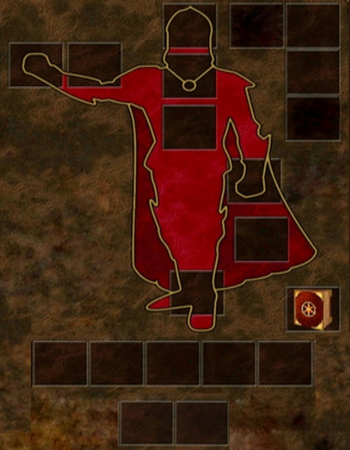
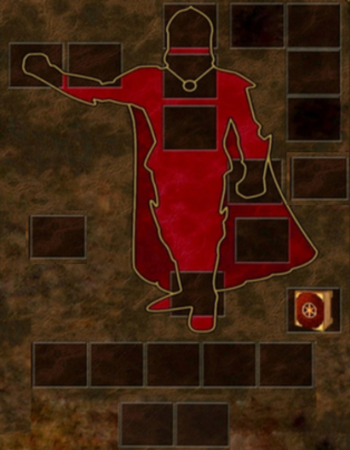
Add new artifacts to shop

diff --git a/economy-gui/src/main/java/pl/psi/gui/EcoController.java b/economy-gui/src/main/java/pl/psi/gui/EcoController.java
@@ -91,6 +91,10 @@ public class EcoController implements PropertyChangeListener {
     private Button LEFT_HAND;
     @FXML
     private Button SHOULDERS;
+    @FXML
+    private Button MISC;
+    @FXML
+    private Button FINGERS;
 
     private ProductType shopChoose;
     private HashMap<ArtifactPlacement, Button> artifactPlacementButtonHashMap;
@@ -115,9 +119,11 @@ public class EcoController implements PropertyChangeListener {
         artifactPlacementButtonHashMap.put(ArtifactPlacement.NECK, NECK);
         artifactPlacementButtonHashMap.put(ArtifactPlacement.SHOULDERS, SHOULDERS);
         artifactPlacementButtonHashMap.put(ArtifactPlacement.FEET, FEET);
+        artifactPlacementButtonHashMap.put(ArtifactPlacement.MISC, MISC);
+        artifactPlacementButtonHashMap.put(ArtifactPlacement.FINGERS, FINGERS);
 
         creatureButtons = List.of(creaturete1, creaturete2, creaturete3, creaturete4, creaturete5, creaturete6, creaturete7);
-        artifactButtons = List.of(HEAD, RIGHT_HAND, LEFT_HAND, FEET, NECK, TORSO, SHOULDERS);
+        artifactButtons = List.of(HEAD, RIGHT_HAND, LEFT_HAND, FEET, NECK, TORSO, SHOULDERS,FINGERS,MISC);
 
         VBoxHero.setBackground(new Background(new BackgroundFill(Color.BROWN, CornerRadii.EMPTY, Insets.EMPTY)));
 
@@ -296,14 +302,16 @@ public class EcoController implements PropertyChangeListener {
         currentGoldLabel.setText(String.valueOf(economyEngine.getActiveHero().getGold().getPrice()));
         shopsBox.getChildren().clear();
         refreshShopDependsOnWhatHasChose();
+
         //refresh boughtArtifacts
         List<EconomyArtifact> artifacts = economyEngine.getActiveHero().getArtifacts();
+
         for (Map.Entry<ArtifactPlacement, Button> b : artifactPlacementButtonHashMap.entrySet()) {
             ArtifactPlacement placement = b.getKey();
             for (EconomyArtifact a : artifacts) {
                 if (a.getPlacement().equals(placement)) {
                     Button button = b.getValue();
-                    Image image = new Image("/artifacts/" + a.getDisplayName() + ".png");
+                    Image image = new Image("/artifacts/" + a.getNameHolder().toString() + ".png");
                     ImageView imageView = new ImageView(image);
                     imageView.setFitHeight(39);
                     imageView.setFitWidth(39);
@@ -317,22 +325,25 @@ public class EcoController implements PropertyChangeListener {
 
     void refreshGuiHeroChanged() {
 
-        playerLabel.setText(economyEngine.getActiveHero().toString());
-        currentGoldLabel.setText(String.valueOf(economyEngine.getActiveHero().getGold().getPrice()));
+        EconomyHero hero = economyEngine.getActiveHero();
+        playerLabel.setText(hero.toString());
+        currentGoldLabel.setText(String.valueOf(hero.getGold().getPrice()));
         roundNumberLabel.setText(String.valueOf(economyEngine.getRoundNumber()));
-        fraction.setText("Fraction : " + economyEngine.getActiveHero().getFraction().name());
+        fraction.setText("Fraction : " + hero.getFraction().name());
 
         // refresh buttons of creatures for the hero2 - without it  hero2 can see what hero1 bought
-        for (int i = 0; i < 7; i++) {
-            Image image = new Image("CLEAR.png");
-            ImageView imageView = new ImageView(image);
+        Image image = new Image("CLEAR.png");
+        ImageView imageView = new ImageView(image);
 
+        for (int i = 0; i < 7; i++) {
             Button button = creatureButtons.get(i);
             imageView.setFitWidth(30);
             imageView.setFitHeight(30);
             button.setGraphic(imageView);
             button.setText("");
+        }
 
+        for (int i = 0; i < artifactButtons.size(); i++) {
             Button button2 = artifactButtons.get(i);
             ImageView imageView2 = new ImageView(image);
             imageView2.setFitWidth(40);

diff --git a/economy-model/src/main/java/pl/psi/artifacts/EconomyArtifactFactory.java b/economy-model/src/main/java/pl/psi/artifacts/EconomyArtifactFactory.java
@@ -95,17 +95,17 @@ public class EconomyArtifactFactory {
 
             case SKULL_HELMET:
 
-                return new EconomyArtifact( ArtifactPlacement.TORSO, "Skull Helmet",
+                return new EconomyArtifact( ArtifactPlacement.HEAD, "Skull Helmet",
                         new Money(5), aArtifactName, "+2 knowledge" );
 
             case CROWN_OF_THE_SUPREME_MAGI:
 
-                return new EconomyArtifact( ArtifactPlacement.TORSO, "Crown of the Supreme Magi",
+                return new EconomyArtifact( ArtifactPlacement.HEAD, "Crown of the Supreme Magi",
                         new Money(10), aArtifactName, "+4 knowledge" );
 
             case THUNDER_HELMET:
 
-                return new EconomyArtifact( ArtifactPlacement.TORSO, "Thunder Helmet",
+                return new EconomyArtifact( ArtifactPlacement.HEAD, "Thunder Helmet",
                         new Money(25), aArtifactName, "+10 knowledge, -2 spell power");
 
             default:

diff --git a/economy-gui/src/main/java/pl/psi/gui/ArtifactButton.java b/economy-gui/src/main/java/pl/psi/gui/ArtifactButton.java
@@ -12,7 +12,7 @@ public class ArtifactButton extends AbstractButton<EconomyArtifact>{
 
     public ArtifactButton(BiConsumer<ProductType, EconomyArtifact> ecoController, EconomyArtifact artifact, boolean canBuy) {
         super(ecoController, artifact, canBuy);
-        PATH = "/artifacts/" + artifact.getDisplayName() + ".png";
+        PATH = "/artifacts/" + artifact.getNameHolder().toString() + ".png";
         DESCRIPTION = artifact.getDisplayName() + " | " + artifact.getGoldCost().getPrice();
     }
 
@@ -27,6 +27,7 @@ public class ArtifactButton extends AbstractButton<EconomyArtifact>{
         aTopPane.getChildren().add(new Label("             "));
         String characteristics = "Placement : " + product.getPlacement();
         aTopPane.getChildren().add(new Label(characteristics));
+        aTopPane.getChildren().add(new Label(product.getDescription()));
     }
 
 }
